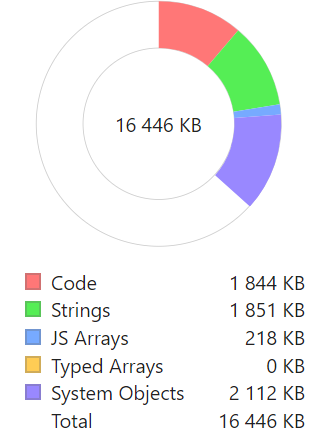
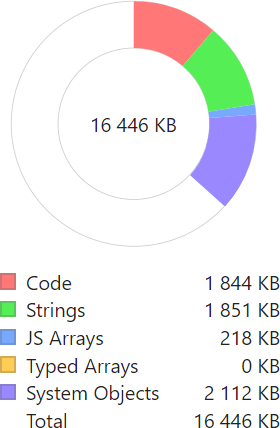
latex: improved embedded images

diff --git a/Documentation/LaTex-Sources/begrs-thesis-ltx/chap/4_Evaluation.tex b/Documentation/LaTex-Sources/begrs-thesis-ltx/chap/4_Evaluation.tex
@@ -36,10 +36,10 @@ This section examines the improvements introduced by this thesis and their imple
 	\textbf{CPU Profile}
 	\begin{figure}[!h]
 	\centering
-	\subfloat[Chrome Reactive Inspector version 2.0]{\includegraphics[width=0.4\textwidth]{gfx/CPU_CRI2.png}\label{fig:CPUCRI2}}
+	\subfloat[Chrome Reactive Inspector version 2.0]{\includegraphics[width=0.49\textwidth]{gfx/CPU_CRI2.png}\label{fig:CPUCRI2}}
 	\hfill
-	\subfloat[Chrome Reactive Inspector version 3.0]{\includegraphics[width=0.4\textwidth]{gfx/CPU_CRI3.png}\label{fig:CPUCRI3}}
-	\caption{CPU Profiles recorded by Google Chrome JavaScript Profiler.}
+	\subfloat[Chrome Reactive Inspector version 3.0]{\includegraphics[width=0.49\textwidth]{gfx/CPU_CRI3.png}\label{fig:CPUCRI3}}
+	\caption{CPU Profiles recorded by Google Chrome's JavaScript Profiler.}
 	\end{figure}
 	
 	The label "(program)" in the recording entitles native code execution of Chrome. The measured execution time for this label is far less accurate than any other measurement because the individual composition is unclear and can solely increase by stopping the recording at a later point in time due to the limitations of the recording tool.
@@ -54,12 +54,14 @@ This section examines the improvements introduced by this thesis and their imple
 	
 	\begin{figure}[!h]
 		\centering
-		\subfloat[CRI2 - 5s duration]{\includegraphics[width=0.4\textwidth]{gfx/RAM_CRI2.png}\label{fig:RAM2}}
-		\subfloat[CRI3 - 5s duration]{\includegraphics[width=0.4\textwidth]{gfx/RAM_CRI3.png}\label{fig:RAM3}}
-		\hfill
-		\subfloat[CRI2 - 250ms duration]{\includegraphics[width=0.4\textwidth]{gfx/RAM_CRI2_250ms.png}\label{fig:RAM2Short}}
-		\subfloat[CRI3 - 250ms duration]{\includegraphics[width=0.4\textwidth]{gfx/RAM_CRI2_250ms.png}\label{fig:RAM3Short}}
-		\caption{Memory Profiles recorded by Google Chrome Memory DevTool}
+		\subfloat[CRI2 - 5s duration]{\includegraphics[width=0.3\textwidth]{gfx/RAM_CRI2.png}\label{fig:RAM2}}
+		\hspace{1cm}
+		\subfloat[CRI3 - 5s duration]{\includegraphics[width=0.3\textwidth]{gfx/RAM_CRI3.png}\label{fig:RAM3}}
+		\hspace{10cm} % forces the linebreak between images
+		\subfloat[CRI2 - 250ms duration]{\includegraphics[width=0.3\textwidth]{gfx/RAM_CRI2_250ms.png}\label{fig:RAM2Short}}
+		\hspace{1cm}
+		\subfloat[CRI3 - 250ms duration]{\includegraphics[width=0.3\textwidth]{gfx/RAM_CRI2_250ms.png}\label{fig:RAM3Short}}
+		\caption{Memory Profiles recorded and displayed by Google Chrome's Memory DevTool.}
 	\end{figure}
 	
 	For the test execution with the full duration (results visible in figures \ref{fig:RAM2} and \ref{fig:RAM3}) CRI2 used 52.7MB in total while CRI3 used only 14.6MB. The most notable difference in a specific category is the size of the memory used by JS arrays which include the stored dependency graph. In the test with reduced execution time (250ms), CRI2 used approximately 16.1MB of memory while CRI3 used 12.6MB of memory. Both versions of CRI have a similar memory consumption for the test with reduced execution time, although CRI2 shows the dependency graph with a noticeable delay (still less than 5s). Since CRI3's history implements a stream like approach through paging, the memory usage once the size of a single \emph{page} is exceeded is fairly constant and does not increase with the number of steps. As CRI2's history does not support paging the memory usage increases approximately proportional to the number of steps in the history. However, since modern computers have usually more than 1GB of memory, even the higher memory consumption of CRI2 does not have any influence detectable by the user. We made no distinction of CRI3 with Delta Encoding and Paging; and CRI3 just with Paging, because this examination shows that the memory usage is far to low to  imposes any limitation on the overall performance of CRI, even for CRI2.

diff --git a/Documentation/LaTex-Sources/begrs-thesis-ltx/begrs_thesis.tex b/Documentation/LaTex-Sources/begrs-thesis-ltx/begrs_thesis.tex
@@ -5,7 +5,7 @@
 
 
  %TODO: search for 'web'
- %TODO: always CRI vs the CRI
+ %TODO: always CRI vs the CRI 
 \begin{document}
 	
 	\pagenumbering{roman}
